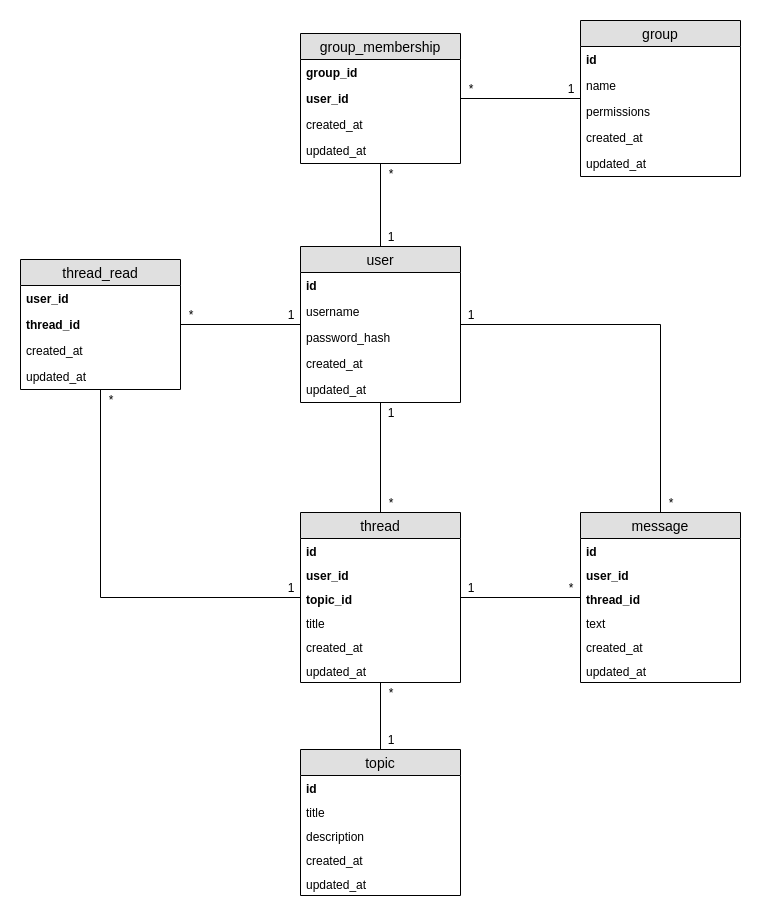
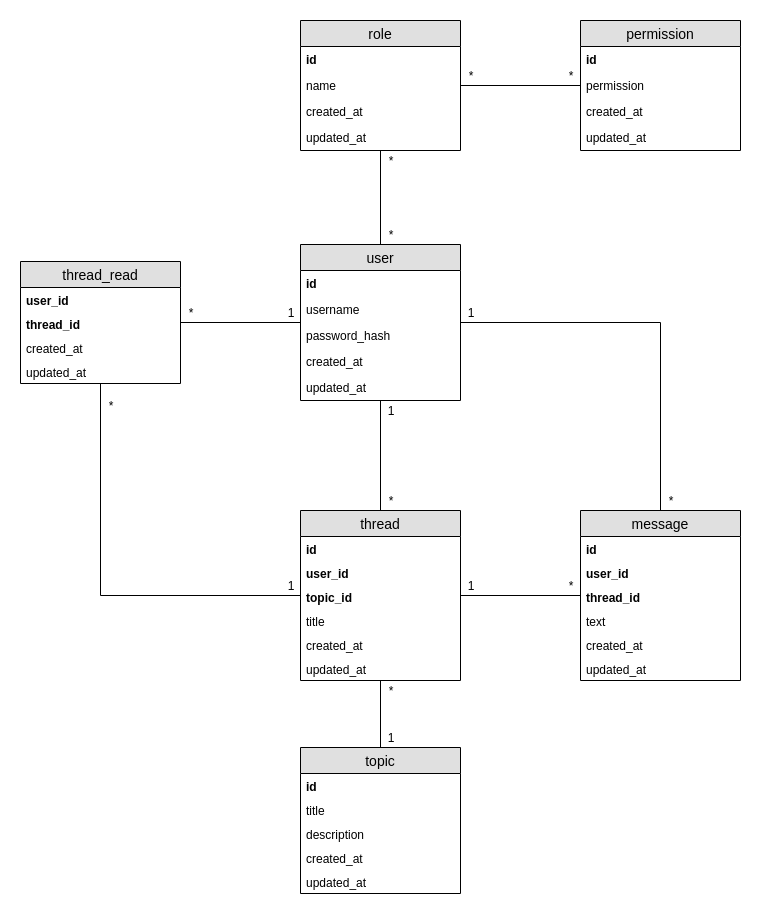
refactor: tables for roles and permissions

diff --git a/application/models/role.py b/application/models/role.py
@@ -1,0 +1,60 @@
+from sqlalchemy import Column, String, Integer, ForeignKey, Text
+from sqlalchemy.orm import relationship
+from .base import Base, TimestampBase
+
+class Role(Base):
+	__tablename__ = 'role'
+
+	name = Column(String(255), unique=True)
+
+	users = relationship('User', secondary='role_membership')
+	permissions = relationship('Permission', secondary='role_permission')
+
+	def __init__(self, name=None):
+		self.name = name
+
+	def __repr__(self):
+		return '<Role id=%r name=%r>' % (self.id, self.name)
+
+class Permission(Base):
+	__tablename__ = 'permission'
+
+	permission = Column(String(255), unique=True)
+
+	def __init__(self, permission=None):
+		self.permission = permission
+
+	def __repr__(self):
+		return '<Permission id=%r permission=%r>' % (self.id, self.permission)
+
+class RoleMembership(TimestampBase):
+	__tablename__ = 'role_membership'
+
+	role_id = Column(Integer, ForeignKey('role.id'), primary_key=True)
+	user_id = Column(Integer, ForeignKey('user.id'), primary_key=True)
+
+	role = relationship('Role', cascade='delete')
+	user = relationship('User', cascade='delete')
+
+	def __init__(self, role_id=None, user_id=None):
+		self.role_id = role_id
+		self.user_id = user_id
+
+	def __repr__(self):
+		return '<RoleMembership id=%r role_id=%r user_id=%r>' % (self.id, self.role_id, self.user_id)
+
+class RolePermission(TimestampBase):
+	__tablename__ = 'role_permission'
+
+	role_id = Column(Integer, ForeignKey('role.id'), primary_key=True)
+	permission_id = Column(Integer, ForeignKey('permission.id'), primary_key=True)
+
+	role = relationship('Role', cascade='delete')
+	permission = relationship('Permission', cascade='delete')
+
+	def __init__(self, role_id=None, permission_id=None):
+		self.role_id = role_id
+		self.permission_id = permission_id
+
+	def __repr__(self):
+		return '<RolePermission id=%r role_id=%r permission_id=%r>' % (self.id, self.role_id, self.permission_id)

diff --git a/run.py b/run.py
@@ -62,6 +62,53 @@ def upgrade_db(first_attempt=True):
 			logging.error(traceback.format_exc())
 			raise
 
+def ensure_admin_user():
+	log_section('Ensure admin user')
+
+	from application.models.user import User
+	from application.models.role import Role, Permission
+
+	admin_user = User.query.filter_by(username='admin').first()
+	admin_role = Role.query.filter_by(name='admin').first()
+
+	if admin_user:
+		print('Admin user exists')
+	else:
+		print('Creating admin user...')
+
+		if not config.admin_password:
+			print('Cannot continue: Admin password not configured')
+			return
+
+		import bcrypt
+		password_hash = bcrypt.hashpw(config.admin_password.encode('utf8'), bcrypt.gensalt())
+		admin_user = User('admin', password_hash.decode('utf8'))
+
+		db.session().add(admin_user)
+		db.session().commit()
+
+	if admin_role:
+		print('Admin role exists')
+	else:
+		print('Creating admin role...')
+
+		manage_roles_permission = Permission.query.filter_by(permission='roles:manage').first()
+
+		admin_role = Role('admin')
+		admin_role.permissions.append(manage_roles_permission)
+
+		db.session().add(admin_role)
+		db.session().commit()
+
+	admin_user_has_role = any(role.id == admin_role.id for role in admin_user.roles)
+
+	if admin_user_has_role:
+		print('Admin user has admin role')
+	else:
+		print('Giving admin role to admin user...')
+		admin_user.roles.append(admin_role)
+		db.session().commit()
+
 def migrate_db(first_attempt=True):
 	log_section('Run database migrations')
 	with app.app_context():
@@ -82,6 +129,7 @@ def main(no_migrations=False, no_assets=False, no_run=False):
 		build_styles()
 
 	if not no_run:
+		ensure_admin_user()
 		start_server()
 
 @click.group(invoke_without_command=True)

diff --git a/migrations/versions/2c84352ffc7b_initial_permissions.py b/migrations/versions/2c84352ffc7b_initial_permissions.py
@@ -1,0 +1,47 @@
+"""initial permissions
+
+Revision ID: 2c84352ffc7b
+Revises: 59d27c5102ab
+Create Date: 2019-09-29 19:53:57.933126
+
+"""
+from alembic import op
+import sqlalchemy as sa
+from sqlalchemy.orm.session import Session
+from application.models.role import Permission
+
+# revision identifiers, used by Alembic.
+revision = '2c84352ffc7b'
+down_revision = '59d27c5102ab'
+branch_labels = None
+depends_on = None
+
+# Users always have some of these permissions when they own the resource in question
+permissions = [
+    'roles:manage',
+    'topics:create',
+    'topics:edit',
+    'topics:delete',
+    'threads:edit',
+    'threads:delete',
+    'messages:edit',
+    'messages:delete'
+]
+
+def upgrade():
+    session = Session(bind=op.get_bind())
+
+    for permission in permissions:
+        item = Permission(permission=permission)
+        session.add(item)
+
+    session.commit()
+
+
+def downgrade():
+    session = Session(bind=op.get_bind())
+
+    for permission in permissions:
+        session.query(Permission).filter_by(permission=permission).delete()
+
+    session.commit()

diff --git a/migrations/versions/e0f4936da1bf_role_permissions.py b/migrations/versions/e0f4936da1bf_role_permissions.py
@@ -1,0 +1,33 @@
+"""role permissions
+
+Revision ID: e0f4936da1bf
+Revises: 97becb89d007
+Create Date: 2019-09-29 19:39:16.830514
+
+"""
+from alembic import op
+import sqlalchemy as sa
+from sqlalchemy_utc.now import utcnow
+
+
+# revision identifiers, used by Alembic.
+revision = 'e0f4936da1bf'
+down_revision = '97becb89d007'
+branch_labels = None
+depends_on = None
+
+
+def upgrade():
+    op.create_table('role_permission',
+        sa.Column('created_at', sa.DateTime(), server_default=utcnow(), nullable=True),
+        sa.Column('updated_at', sa.DateTime(), server_default=utcnow(), onupdate=utcnow(), nullable=True),
+        sa.Column('role_id', sa.Integer(), nullable=True),
+        sa.Column('permission_id', sa.Integer(), nullable=True),
+        sa.ForeignKeyConstraint(['permission_id'], ['permission.id'], ondelete='CASCADE'),
+        sa.ForeignKeyConstraint(['role_id'], ['role.id'], ondelete='CASCADE'),
+        sa.PrimaryKeyConstraint('role_id', 'permission_id')
+    )
+
+
+def downgrade():
+    op.drop_table('role_permission')

diff --git a/migrations/versions/59d27c5102ab_role_memberships.py b/migrations/versions/59d27c5102ab_role_memberships.py
@@ -1,0 +1,33 @@
+"""role memberships
+
+Revision ID: 59d27c5102ab
+Revises: e0f4936da1bf
+Create Date: 2019-09-29 19:42:02.023096
+
+"""
+from alembic import op
+import sqlalchemy as sa
+from sqlalchemy_utc.now import utcnow
+
+
+# revision identifiers, used by Alembic.
+revision = '59d27c5102ab'
+down_revision = 'e0f4936da1bf'
+branch_labels = None
+depends_on = None
+
+
+def upgrade():
+    op.create_table('role_membership',
+        sa.Column('created_at', sa.DateTime(), server_default=utcnow(), nullable=True),
+        sa.Column('updated_at', sa.DateTime(), server_default=utcnow(), onupdate=utcnow(), nullable=True),
+        sa.Column('role_id', sa.Integer(), nullable=True),
+        sa.Column('user_id', sa.Integer(), nullable=True),
+        sa.ForeignKeyConstraint(['role_id'], ['role.id'], ondelete='CASCADE'),
+        sa.ForeignKeyConstraint(['user_id'], ['user.id'], ondelete='CASCADE'),
+        sa.PrimaryKeyConstraint('role_id', 'user_id')
+    )
+
+
+def downgrade():
+    op.drop_table('role_membership')

diff --git a/migrations/versions/97becb89d007_permissions.py b/migrations/versions/97becb89d007_permissions.py
@@ -1,0 +1,32 @@
+"""permissions
+
+Revision ID: 97becb89d007
+Revises: 193574a7d6be
+Create Date: 2019-09-29 19:35:49.717023
+
+"""
+from alembic import op
+import sqlalchemy as sa
+from sqlalchemy_utc.now import utcnow
+
+
+# revision identifiers, used by Alembic.
+revision = '97becb89d007'
+down_revision = '193574a7d6be'
+branch_labels = None
+depends_on = None
+
+
+def upgrade():
+    op.create_table('permission',
+        sa.Column('id', sa.Integer(), autoincrement=True, nullable=False),
+        sa.Column('created_at', sa.DateTime(), server_default=utcnow(), nullable=True),
+        sa.Column('updated_at', sa.DateTime(), server_default=utcnow(), onupdate=utcnow(), nullable=True),
+        sa.Column('permission', sa.String(length=255), nullable=True),
+        sa.PrimaryKeyConstraint('id'),
+        sa.UniqueConstraint('permission')
+    )
+
+
+def downgrade():
+    op.drop_table('permission')

diff --git a/migrations/versions/193574a7d6be_roles.py b/migrations/versions/193574a7d6be_roles.py
@@ -1,0 +1,32 @@
+"""roles
+
+Revision ID: 193574a7d6be
+Revises: 0118e068d022
+Create Date: 2019-09-29 19:30:50.982132
+
+"""
+from alembic import op
+import sqlalchemy as sa
+from sqlalchemy_utc.now import utcnow
+
+
+# revision identifiers, used by Alembic.
+revision = '193574a7d6be'
+down_revision = '0118e068d022'
+branch_labels = None
+depends_on = None
+
+
+def upgrade():
+    op.create_table('role',
+        sa.Column('id', sa.Integer(), autoincrement=True, nullable=False),
+        sa.Column('created_at', sa.DateTime(), server_default=utcnow(), nullable=True),
+        sa.Column('updated_at', sa.DateTime(), server_default=utcnow(), onupdate=utcnow(), nullable=True),
+        sa.Column('name', sa.String(length=255), nullable=True),
+        sa.PrimaryKeyConstraint('id'),
+        sa.UniqueConstraint('name')
+    )
+
+
+def downgrade():
+    op.drop_table('role')

diff --git a/application/models/base.py b/application/models/base.py
@@ -3,9 +3,13 @@ from sqlalchemy.ext.declarative import declared_attr
 from sqlalchemy_utc.now import utcnow
 from ..main import db
 
-class Base(db.Model):
+class TimestampBase(db.Model):
+	__abstract__ = True
+
+	created_at = Column(DateTime, server_default=utcnow())
+	updated_at = Column(DateTime, server_default=utcnow(), onupdate=utcnow())
+
+class Base(TimestampBase):
 	__abstract__ = True
 
 	id = Column(Integer, primary_key=True, autoincrement=True)
-	created_at = Column(DateTime, server_default=utcnow())
-	updated_at = Column(DateTime, server_default=utcnow(), onupdate=utcnow())

diff --git a/application/models/user.py b/application/models/user.py
@@ -1,4 +1,5 @@
 from sqlalchemy import Column, String
+from sqlalchemy.orm import relationship
 from flask_login import AnonymousUserMixin, UserMixin
 from .base import Base
 from ..main import login_manager
@@ -8,6 +9,8 @@ class User(UserMixin, Base):
 
 	username = Column(String(255), unique=True)
 	password_hash = Column(String(255))
+
+	roles = relationship('Role', secondary='role_membership')
 
 	def __init__(self, username=None, password_hash=None):
 		self.username = username

diff --git a/application/main.py b/application/main.py
@@ -36,3 +36,10 @@ app.register_blueprint(auth_module)
 app.register_blueprint(topics_module)
 app.register_blueprint(threads_module)
 app.register_blueprint(messages_module)
+
+# Import models so that alembic can find them
+import application.models.user
+import application.models.role
+import application.models.topic
+import application.models.thread
+import application.models.message

diff --git a/config.py b/config.py
@@ -14,6 +14,8 @@ raw_db_path = os.getenv('DATABASE_URL')
 project_root = os.path.dirname(__file__)
 db_path = raw_db_path.replace('%PROJECT_ROOT%', project_root)
 
+admin_password = os.getenv('ADMIN_PASSWORD')
+
 FLASK_ENV = env
 DEBUG = os.getenv('DEBUG') == 'True' if os.getenv('DEBUG') else env == 'development'
 PROPAGATE_EXCEPTIONS = False
